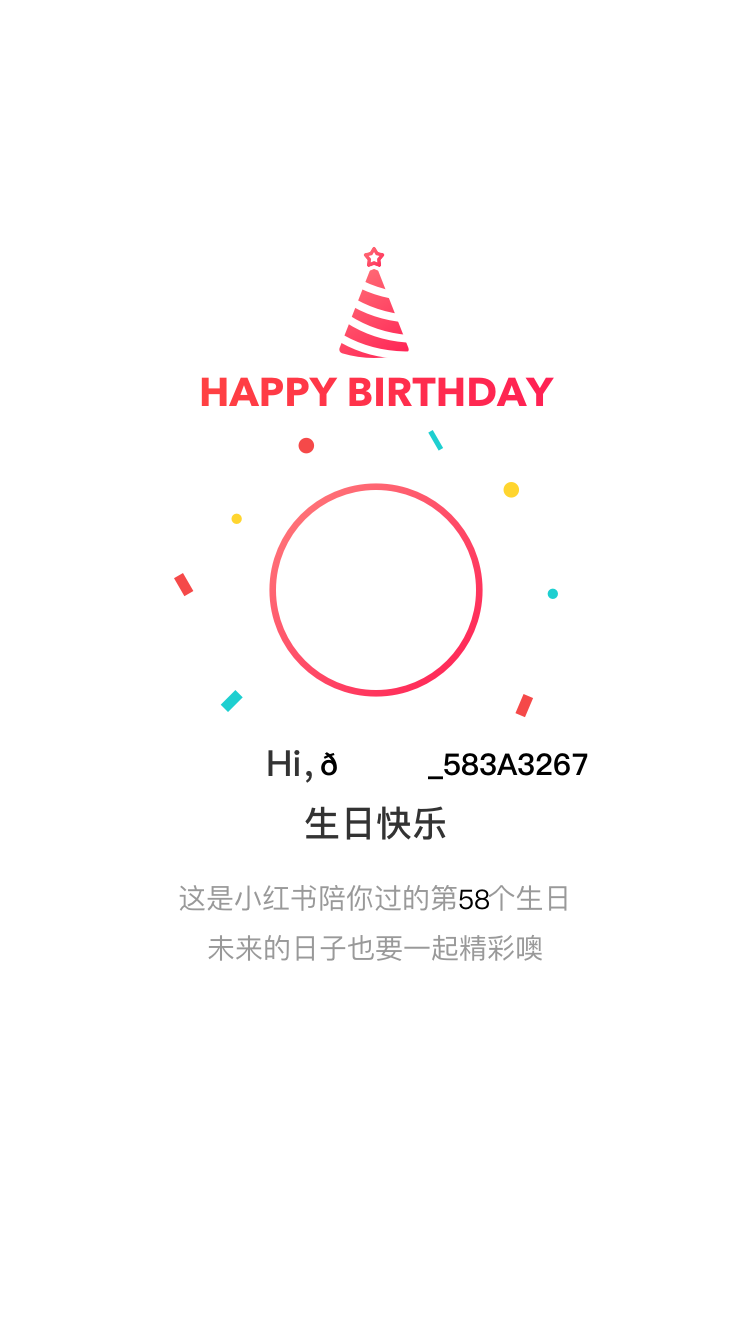
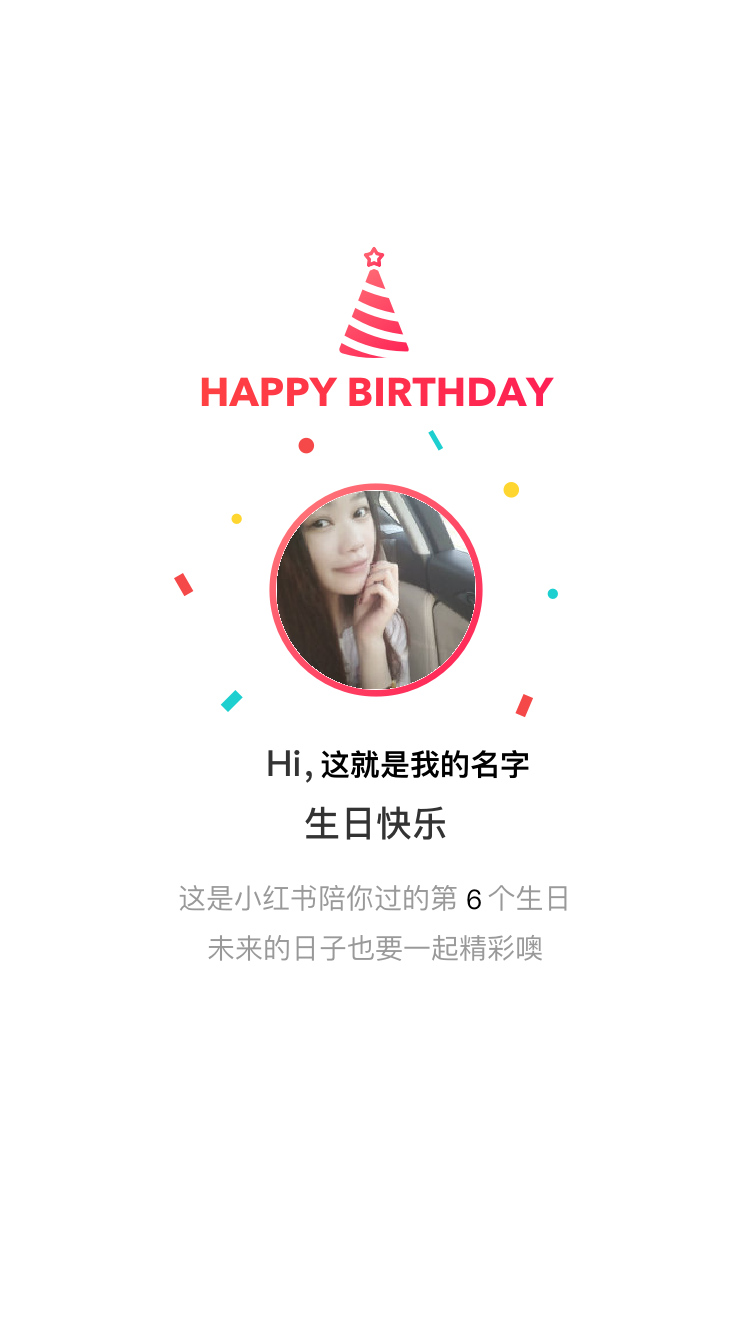
add all

Changed region(s): [[0.368, 0.3688, 0.644, 0.5225], [0.4293, 0.5532, 0.7973, 0.584], [0.6133, 0.6454, 0.644, 0.7069]]

diff --git a/2.7-libs/pillow/birthday_pic_generate.py b/2.7-libs/pillow/birthday_pic_generate.py
@@ -11,8 +11,8 @@ from PIL import Image
 from PIL import ImageDraw
 from PIL import ImageFont
 
-NAME = u''
-AGE = 58
+NAME = u'这就是我的名字'
+AGE = 6
 
 
 def generate_birthday():
@@ -31,13 +31,35 @@ def generate_birthday():
     age_font = ImageFont.truetype('static/simple.ttf', 27)
     draw.text((age_x, 880), str(AGE), font=age_font, fill=(0, 0, 0))
 
-    # head image save
+    # head image 扣取中心的 image 图片方式
+    head_img = Image.open('static/head_image.jpg')
+    head_img_size = head_img.size
+    x_length = head_img_size[0]
+    y_length = head_img_size[1]
+
+    absolute_length = abs(x_length - y_length) // 2
+    if x_length < y_length:
+        head_img2 = head_img.crop((0, absolute_length, x_length,  absolute_length + x_length))
+    else:
+        head_img2 = head_img.crop((absolute_length, 0,  absolute_length + y_length, y_length))
+    head_img3 = head_img2.resize((210, 210))
+
+    # 中心园内切正方形 PX = 305, PY = 520, a = 140
+    # 因此圆中心 o(375, 590) , 半径 r = 105
+    # 放置到图片， (270, 485) 的开始位置
+    head_image_pim = head_img3.load()
+    pim = im.load()
+    for PX in range(0, 210):
+        for PY in range(0, 210):
+            if pow((PX - 105), 2) + pow((PY - 105), 2) < pow(105, 2):
+                if pim[270 + PX, 485 + PY] == (255, 255, 255, 255):
+                    pim[270 + PX, 485 + PY] = head_image_pim[PX, PY]
 
     im.save('static/bir_result.png')
 
 
 if __name__ == '__main__':
-    print 'start birthday generate'
+    # # print 'start birthday generate'
     generate_birthday()
-    print 'end birthday generate'
+    # print 'end birthday generate'
 

diff --git a/2.7-libs/pillow/test_block_draw.py b/2.7-libs/pillow/test_block_draw.py
@@ -10,10 +10,20 @@ description:  图片对应的 block 内容的写入方式
 
 from PIL import Image
 
-PX = 10
-PY = 10
-PXE = 150
-PYE = 150
+# 中心 o(375, 590)
+
+o = (375, 590)
+r = 99
+PX = o[0] - r
+PY = o[1] - r
+a = 2 * r
+
+# PX = 305    # x 轴位置
+# PY = 520    # y 轴位置
+# a = 140     # 边长
+PXE = PX + a
+PYE = PY + a
+
 
 
 def draw_block():
@@ -23,10 +33,33 @@ def draw_block():
     for x in range(PX, PXE + 1):
         for y in range(PY, PYE + 1):
             pim[x, y] = (0, 0, 0)
-    img.save('static/test2.jpg')
+    img.save('static/test_lt.jpg')
+
+
+
+def draw_test_block():
+    img = Image.open('static/bir_origin.png')
+    pim = img.load()
+    for x in range(PX, PXE + 1):
+        for y in range(PY, PYE + 1):
+            pim[x, y] = (0, 0, 0)
+    img.save('static/bir_origin_test.png')
+
 
 
 if __name__ == '__main__':
-    draw_block()
+    draw_test_block()
+
+
+
+
+
+
+
+
+
+
+
+
 
 

diff --git a/2.7-libs/cache/datetime_test.py b/2.7-libs/cache/datetime_test.py
@@ -23,7 +23,7 @@ def day_range_iter(begin_date, end_date):
 if __name__ == '__main__':
     start_date = datetime.datetime(*(2018, 7, 1))
     end_date = datetime.datetime(2018, 8, 1)
-    print start_date.month
+    print(start_date.month)
     # dr_iter = day_range_iter(start_date, end_date)
     # for kd in dr_iter:
     #     print kd

diff --git a/2.7-libs/cache/val_constant.py b/2.7-libs/cache/val_constant.py
@@ -7,3 +7,9 @@ __mail__ = 'yaoqijunmail@foxmail.com'
 '''
 description: 
 '''
+
+
+if __name__ == '__main__':
+    print(5 // 6)
+    print(pow(5, 2))
+    print((1,2) == (1, 2))

diff --git a/2.7-libs/pillow/image_change.py b/2.7-libs/pillow/image_change.py
@@ -32,5 +32,6 @@ def change_filter():
 
 
 if __name__ == '__main__':
-    change_filter()
+    # change_filter()
+    change_size()
 
